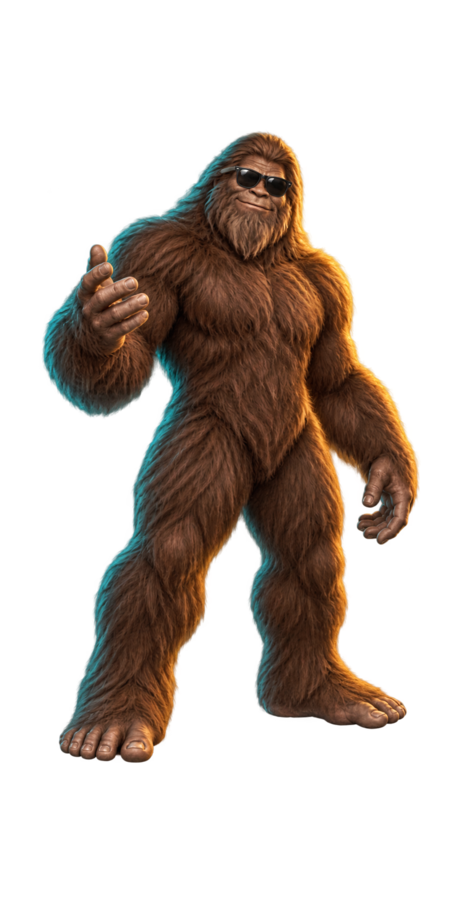
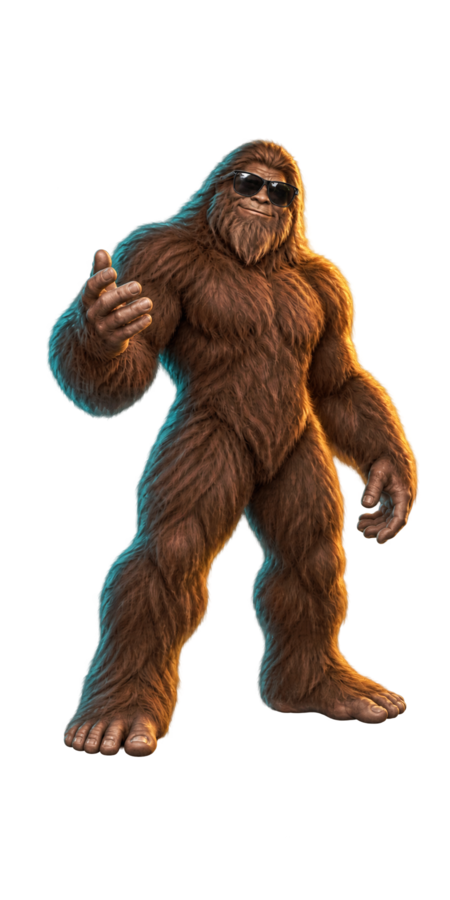
Refine showroom preview composition

diff --git a/html/verbia.html b/html/verbia.html
@@ -391,9 +391,9 @@
     .haptic-toggle { min-width:76px; }
     .menu-preview { position:relative; height:146px; margin-top:10px; overflow:hidden; border:1px solid color-mix(in srgb,var(--mint) 34%,transparent); border-radius:17px 6px; background:radial-gradient(circle at 52% 38%,color-mix(in srgb,var(--mint) 28%,transparent),transparent 44%),linear-gradient(180deg,#175063,#0b1933 82%); box-shadow:inset 0 0 34px rgba(75,223,255,.13); }
     .menu-preview::before { content:"CURRENT EXPLORER"; position:absolute; z-index:8; left:10px; top:8px; color:rgba(255,255,255,.42); font-size:.45rem; font-weight:900; letter-spacing:.15em; }
-    .menu-preview-ship { position:absolute; z-index:1; top:8px; right:2%; bottom:8px; width:46%; background-repeat:no-repeat; background-position:right center; background-size:contain; opacity:.5; filter:brightness(1.18) saturate(1.2) drop-shadow(0 5px 8px rgba(0,0,0,.38)); }
+    .menu-preview-ship { position:absolute; z-index:1; top:8px; right:0; bottom:8px; width:38%; background-repeat:no-repeat; background-position:right center; background-size:contain; opacity:.5; filter:brightness(1.18) saturate(1.2) drop-shadow(0 5px 8px rgba(0,0,0,.38)); }
     .menu-preview-persona { position:absolute; z-index:3; left:50%; bottom:3px; width:42%; height:132px; translate:-50% 0; background-repeat:no-repeat; background-position:center bottom; background-size:contain; filter:drop-shadow(0 8px 8px rgba(0,0,0,.5)); }
-    .menu-preview-pet { position:absolute; z-index:5; right:22%; bottom:3px; width:21%; height:78px; transform:scale(var(--companion-scale,1)); transform-origin:center bottom; background-repeat:no-repeat; background-position:center bottom; background-size:contain; filter:drop-shadow(0 5px 6px rgba(0,0,0,.48)); }
+    .menu-preview-pet { position:absolute; z-index:5; right:28%; bottom:3px; width:19%; height:78px; transform:scale(var(--companion-scale,1)); transform-origin:center bottom; background-repeat:no-repeat; background-position:center bottom; background-size:contain; filter:drop-shadow(0 5px 6px rgba(0,0,0,.48)); }
     .menu-preview-name { position:absolute; z-index:7; left:12px; top:52%; translate:0 -50%; max-width:34%; color:var(--gold); font-family:"Brush Script MT","Segoe Script","Comic Sans MS",cursive; font-size:1.45rem; font-weight:900; line-height:.8; text-transform:uppercase; rotate:-8deg; text-shadow:0 2px 0 rgba(29,11,0,.9); }
     .menu-preview-ship:empty,.menu-preview-pet:empty { display:none; }
     .configuration-panel { min-height:0; }
@@ -612,7 +612,7 @@
     .inventory-item-preview.square-cell { aspect-ratio:1 / 2; }
     .inventory-item strong { display:block; color:var(--surface-text); font-size:.58rem; line-height:1.15; }.inventory-item small { display:block; margin-top:5px; color:var(--gold); font-size:.52rem; line-height:1.3; }
     .inventory-item.equipped { border-color:var(--mint); box-shadow:0 0 14px color-mix(in srgb,var(--mint) 22%,transparent); }
-    .showroom-explorer-name { position:absolute; z-index:12; left:20px; bottom:78px; max-width:64%; color:var(--gold); font-family:"Brush Script MT","Segoe Script","Comic Sans MS",cursive; font-size:clamp(2rem,8vw,3.8rem); font-weight:900; line-height:.8; letter-spacing:.035em; text-transform:uppercase; rotate:-11deg; text-shadow:0 3px 0 rgba(29,11,0,.9),0 0 12px color-mix(in srgb,var(--gold) 70%,transparent); pointer-events:none; }
+    .showroom-explorer-name { position:absolute; z-index:12; left:22px; top:20%; max-width:64%; color:var(--gold); font-family:"Brush Script MT","Segoe Script","Comic Sans MS",cursive; font-size:clamp(2rem,8vw,3.8rem); font-weight:900; line-height:.8; letter-spacing:.035em; text-transform:uppercase; rotate:-25deg; text-shadow:0 3px 0 rgba(29,11,0,.9),0 0 12px color-mix(in srgb,var(--gold) 70%,transparent); pointer-events:none; }
 
     .discovery-dock { position:relative; z-index:4; min-height:0; }
     .discovery-shelf { position:relative; height:clamp(135px,17svh,165px); overflow:hidden; touch-action:pan-y; border:1px solid color-mix(in srgb,var(--mint) 28%,transparent); border-radius:20px 8px 20px 8px; background:linear-gradient(160deg,color-mix(in srgb,var(--panel) 94%,#fff 6%),color-mix(in srgb,var(--deep) 94%,transparent)); box-shadow:0 12px 35px rgba(0,0,0,.28),inset 0 1px rgba(255,255,255,.05); backdrop-filter:blur(13px); }
